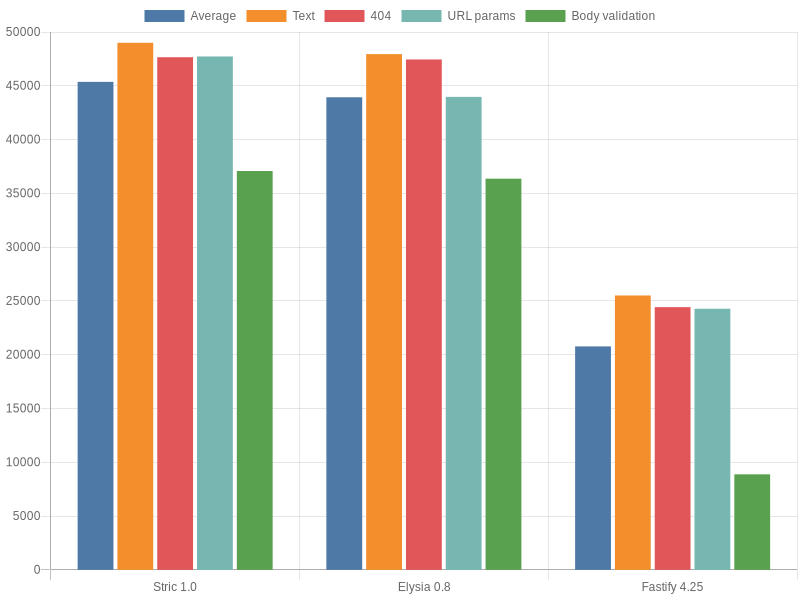
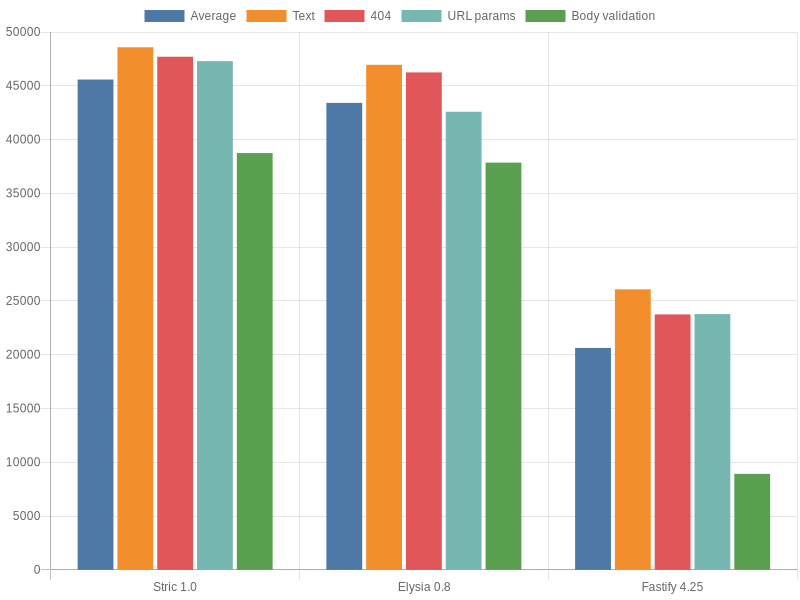
Update

diff --git a/config.ts b/config.ts
@@ -58,7 +58,7 @@ export default {
         { file: 'detail.ts' }
     ],
     command: {
-        connections: 500,
+        connections: 1500,
         duration: '30s',
         fasthttp: true,
         timeout: '10s'

diff --git a/results/index.md b/results/index.md
@@ -1,6 +1,6 @@
-Bun: 1.0.22
+Bun: 1.0.23
 
-Tested at: 08:47, January 13th, 2024
+Tested at: 20:17, January 16th, 2024
 
 ## OS Details
 - Cores: 8
@@ -13,12 +13,12 @@ Tested at: 08:47, January 13th, 2024
 Should return `Hi` as a response.
 ### GET `/a/b`
 Should return a response with status code 404.
-### GET `/id/78?name=V2m`
+### GET `/id/30?name=pnI`
 Should return the `id` parameter value and the query value, for example `1 a` when the request path is `/id/1?name=a`.
 ### POST `/json`
 Return the response in format `${id}: ${name}`. Must include request validation in the process.
 ### Info
-- Connections: 500
+- Connections: 1500
 - Duration: 30s
 - Using `fasthttp`: `true`
 - Results are measured in requests per second.
@@ -26,6 +26,6 @@ Return the response in format `${id}: ${name}`. Must include request validation 
 ## Results
 | Name | Average | Text | 404 | URL params | Body validation |
 |  :---: | :---: | :---: | :---: | :---: | :---: |
-| [Stric 1.0](/results/main/Stric) | 45362.94 | 48994.52 | 47655.80 | 47722.78 | 37078.68 |
-| [Elysia 0.8](/results/main/Elysia) | 43931.19 | 47943.20 | 47449.30 | 43967.35 | 36364.90 |
-| [Fastify 4.25](/results/main/Fastify) | 20770.65 | 25508.64 | 24425.32 | 24272.01 | 8876.61 |
+| [Stric 1.0](/results/main/Stric) | 45580.01 | 48578.51 | 47699.93 | 47294.40 | 38747.21 |
+| [Elysia 0.8](/results/main/Elysia) | 43410.22 | 46948.59 | 46244.10 | 42586.50 | 37861.68 |
+| [Fastify 4.25](/results/main/Fastify) | 20628.66 | 26076.87 | 23738.52 | 23778.43 | 8920.81 |

diff --git a/README.md b/README.md
@@ -49,9 +49,9 @@ See [configuration file](/config.ts) and the [type declarations](/lib/types.ts).
 
 | Name | Average | Text | 404 | URL params | Body validation |
 |  :---: | :---: | :---: | :---: | :---: | :---: |
-| [Stric 1.0](/results/main/Stric) | 45362.94 | 48994.52 | 47655.80 | 47722.78 | 37078.68 |
-| [Elysia 0.8](/results/main/Elysia) | 43931.19 | 47943.20 | 47449.30 | 43967.35 | 36364.90 |
-| [Fastify 4.25](/results/main/Fastify) | 20770.65 | 25508.64 | 24425.32 | 24272.01 | 8876.61 |
+| [Stric 1.0](/results/main/Stric) | 45580.01 | 48578.51 | 47699.93 | 47294.40 | 38747.21 |
+| [Elysia 0.8](/results/main/Elysia) | 43410.22 | 46948.59 | 46244.10 | 42586.50 | 37861.68 |
+| [Fastify 4.25](/results/main/Fastify) | 20628.66 | 26076.87 | 23738.52 | 23778.43 | 8920.81 |
 ## Frameworks
 - [Stric](https://stricjs.netlify.app): A web framework for building high-performance, scalable web applications.
 - [Fastify](https://fastify.dev): Fast and low overhead web framework, for Node.js.
